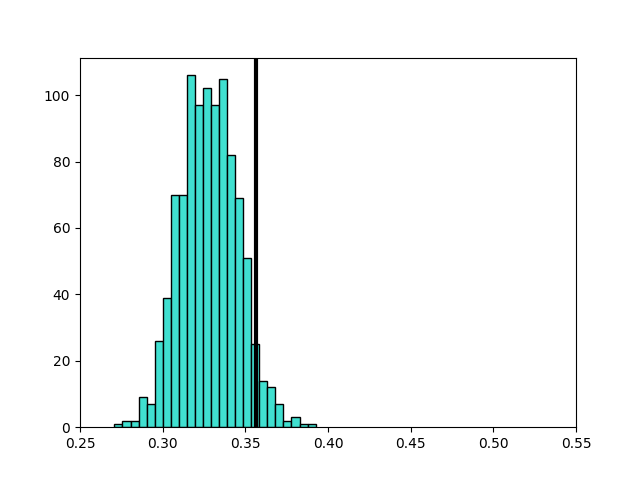
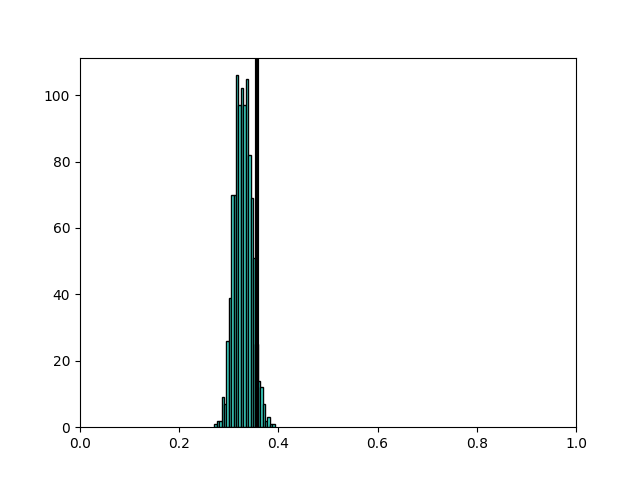
integrated prda into plotter

diff --git a/braincode/plots.py b/braincode/plots.py
@@ -7,38 +7,29 @@ import numpy as np
 class Plotter:
     def __init__(self, analysis):
         self._analysis = analysis
+        self._embedding = self._analysis.embedding.split("-")[1]
         type = self._analysis.__class__.__name__
-        if type == "MVPA":
-            self.plot = self._plot_mvpa
+        if type in ["MVPA", "PRDA"]:
+            self._feature = self._analysis.feature.split("-")[1]
+            self.plot = self._plot_decoder
         elif type == "RSA":
             self.plot = self._plot_rsa
         else:
             raise TypeError("Analysis type not handled.")
 
-    def _plot_mvpa(self, show=False):
+    def _plot_decoder(self, show=False):
         fname = Path(__file__).parent.joinpath(
-            "outputs",
-            "plots",
-            "mvpa",
-            f"{self._analysis.feature.split('-')[1]}_{self._analysis.embedding.split('-')[1]}.png",
+            "outputs", "plots", "mvpa", f"{self._feature}_{self._embedding}.png"
         )
         plt.hist(self._analysis.null, bins=25, color="turquoise", edgecolor="black")
         plt.axvline(self._analysis.score, color="black", linewidth=3)
-        plt.xlim(
-            {
-                "test-code": [0.4, 0.9],
-                "task-content": [0.4, 0.65],
-                "task-structure": [0.25, 0.55],
-                "code-bow": [0.4, 0.7],
-                "code-tfidf": [0.4, 0.7],
-            }[self._analysis.feature]
-        )
+        plt.xlim([0, 1])
         plt.savefig(fname)
         plt.show() if show else plt.clf()
 
     def _plot_rsa(self, show=False):
         fname = Path(__file__).parent.joinpath(
-            "outputs", "plots", "rsa", f"{self._analysis.embedding.split('-')[1]}.jpg"
+            "outputs", "plots", "rsa", f"{self._embedding}.jpg"
         )
         ticks = np.arange(self._analysis.corr.coef.shape[0])
         labels = np.array(["_".join(row) for row in self._analysis.corr.axes])

diff --git a/braincode/decoding.py b/braincode/decoding.py
@@ -129,5 +129,5 @@ class PRDA(Decoder):  # progam representation decoding analysis
         X, y = self._loader.get_xy()
         runs = np.tile(np.arange(k), (y.size // k + 1))[: y.size]  # kfold CV
         if mode == "null":
-            y = self._shuffle_within_runs(y, runs)
+            np.random.shuffle(y)
         return self._cross_validate_model(X, y, runs)
